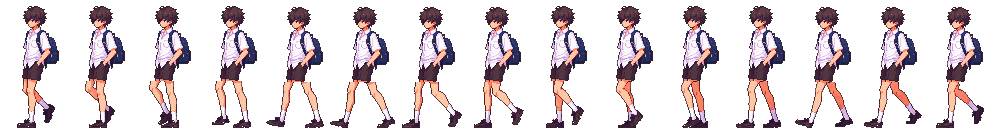
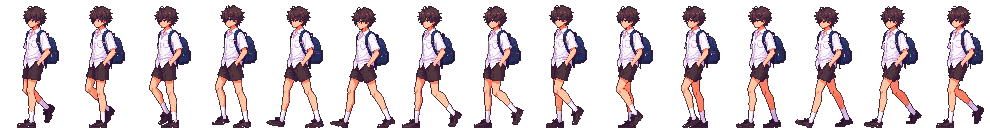
Fix walking judder: camera runs after the hero, no game-pixel rounding
The shake came from the background, not the sprite: rounding the camera
to whole game pixels made the scene scroll in a 2-0-2-2 screen-pixel
rhythm, and the camera ran before the hero each frame so it lagged a
frame behind. The camera now has a higher process_priority and follows
the unrounded position, so the scene scrolls evenly (1-2-1-2 px).

Walk sheet regenerated without --lock-upper so the upper body animates.

Claude-Session: https://claude.ai/code/session_011NAKRUA9btL4iodwTEM3Dh

diff --git a/README.md b/README.md
@@ -67,7 +67,7 @@ assets/textures/         texture พิกเซลสำหรับฉาก H
 ```
 python3 tools/import_walk_video.py art_source/hero_walk_greenscreen.mp4 assets/characters/hero_walk.png \
     --start 20 --cycle 30 --height 122 --palette assets/characters/hero_uniform.png \
-    --frames 15 --legs 0.65 0.9 1.16 --bob 0.4 --lock-upper 46 --shoe-scale 0.8
+    --frames 15 --legs 0.65 0.9 1.16 --bob 0.4 --shoe-scale 0.8
 ```
 
 วิดีโอต้องเป็นตัวละครเดินอยู่กับที่ (กล้องนิ่ง) สคริปต์ตัดหนึ่งรอบก้าว (`--cycle` เฟรม) เลือกมา `--frames` เฟรม
@@ -76,10 +76,10 @@ python3 tools/import_walk_video.py art_source/hero_walk_greenscreen.mp4 assets/c
 แล้วให้เฉดในแต่ละวัสดุกระจายเหมือนภาพยืนพอดี (สีตรงกับภาพยืน) และวาดเส้นขอบ 1px ด้วยสีขอบของภาพยืน
 `--legs 0.65 0.9 1.16` ยืดช่วงขา (ชายกางเกงถึงข้อเท้า) 16% ให้ปกเสื้อ/ชายกางเกงสูงเท่าภาพยืน (ตัวไม่เตี้ยลงตอนเดิน)
 `--bob 0.4` ลดการเด้งขึ้นลงของตัวเหลือ 40% ของวิดีโอ (ยืด/หดขาทีละเฟรม เท้ายังแตะพื้น) และจัดลำตัวทุกเฟรมให้ตรงกัน
-`--lock-upper 46` ใช้ช่วงบนของตัว (เหนือพื้น 46px ลงมาถึงกางเกง) จากเฟรมเดียวกับทุกเฟรม ให้ขยับแค่ขา
+(ไม่บังคับ) `--lock-upper 46` ใช้ช่วงบนของตัว (เหนือพื้น 46px ลงมาถึงกางเกง) จากเฟรมเดียวกับทุกเฟรม ให้ขยับแค่ขา
 (วิดีโอ AI วาดผม/เสื้อ/กระเป๋าไม่เหมือนกันทุกเฟรม ดูเหมือนตัวสั่น) และให้ตัวยุบลง 1px ตอนก้าวกว้าง
 `--shoe-scale 0.8` ย่อรองเท้าแต่ละข้างลงเหลือ 80% ของความสูง (ทั้งก้อน รูปทรงไม่ขาด) ยึดที่ข้อเท้า แล้วเลื่อนภาพลงให้เท้าแตะพื้น
-- ตัวละครและกล้องอยู่ที่พิกเซลเต็มเสมอ (ไม่สั่น/ไม่เบลอตอนเดิน) กล้อง (`scene_camera.gd`) ล็อกตามตัวละคร (`follow`) และ `camera_x` ในบทกลายเป็นระยะเลื่อนกล้องออกจากตัวละคร
+- กล้องทำงานหลังตัวละครในแต่ละเฟรม (`process_priority`) และไม่ปัดตำแหน่งเป็นพิกเซลเกม ฉากจึงเลื่อนลื่นไม่กระตุก กล้อง (`scene_camera.gd`) ล็อกตามตัวละคร (`follow`) และ `camera_x` ในบทกลายเป็นระยะเลื่อนกล้องออกจากตัวละคร
 
 **ความเร็วแต่ละชั้น (parallax) ตามระยะจริง:** ตัวละครอยู่ห่างกล้อง ~4 ม. ชั้นที่อยู่ห่าง D เมตรจะเลื่อน ≈ 4/D
 
